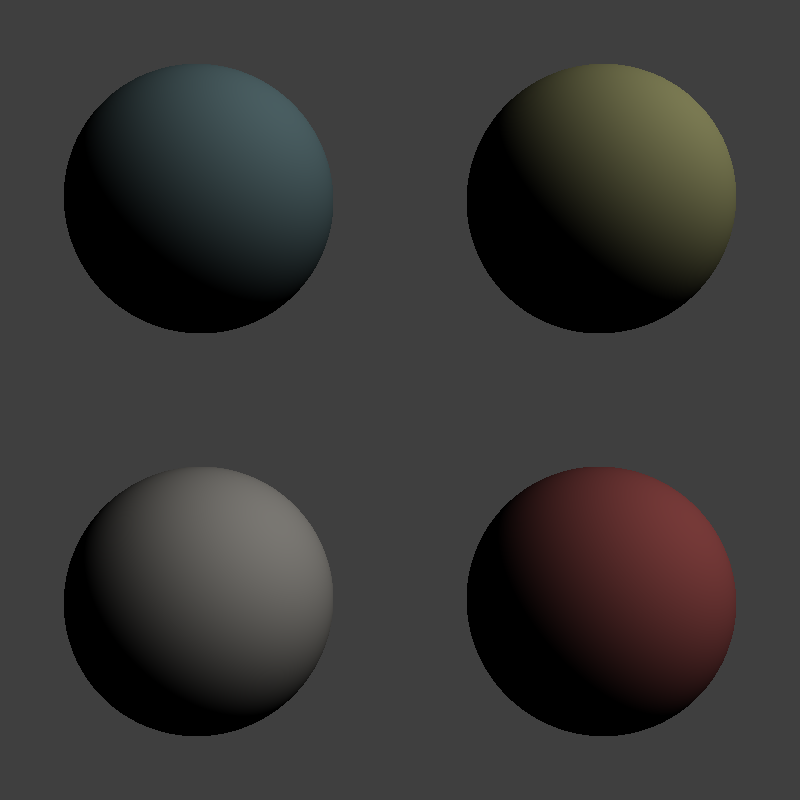
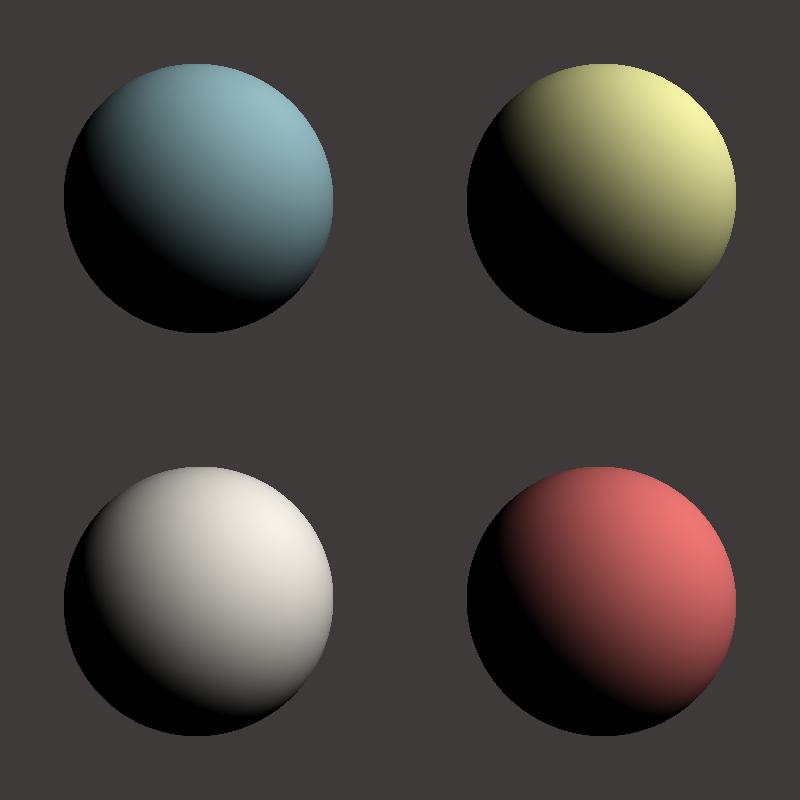
Lambertian Shader WORKS!!!

diff --git a/renderer/Lambertian.cpp b/renderer/Lambertian.cpp
@@ -3,7 +3,7 @@
 //
 
 #include "Lambertian.h"
-#include <math.h>
+#include <algorithm>
 
 Lambertian::Lambertian(sivelab::Vector3D thisColor){
     setColor(thisColor);
@@ -26,19 +26,29 @@ sivelab::Vector3D Lambertian::applyShader(Ray &r, std::vector<Light *> &lights, 
     normal.normalize();
 
 
+   float cosTheta= std::max(0.0f, (float)normal.dot(lightDir));
 
 
 
     float temp = normal.dot(lightDir);
-    if(temp < 0.00001) return sivelab::Vector3D(-1,-1,-1);
+  //  if(temp < 0.00001) return sivelab::Vector3D(-1,-1,-1);
 
 
-    newColor += lights[0]->getIntensity() * getColor() *sivelab::Vector3D(1,1,1) * std::fmax(0.f,temp);
+    newColor += lights[0]->getIntensity() * getColor() *sivelab::Vector3D(1,1,1) * std::max(0.0f,temp);
 
+
+    /**
+     * Trying something new right here.
+     */
+
+ //   newColor = (getColor()/M_PI)*(std::fmax(0.f, normal.dot(lightDir))/(h.getActualT()*h.getActualT()))*lights[0]->getIntensity();
 
 
   //  }
 
     return newColor;
+
+//   return sivelab::Vector3D(cosTheta,cosTheta,cosTheta);
+
 
 }

diff --git a/main/run.cpp b/main/run.cpp
@@ -51,7 +51,7 @@ int main(int argc, char *argv[]){
         for (int i=0; i<fb.getWidth(); ++i) {
             Ray r;
             r = pCam->generateRay(i,j);
-            sivelab::Vector3D rgb = sivelab::Vector3D(-0.5,-0.5,-0.5);  //r.getDirection();
+            sivelab::Vector3D rgb = sivelab::Vector3D(0.25,0.23,0.23);  //r.getDirection();
             double tmax = DBL_MAX;
             Shape *s = sc.getShapes()[0];
             for(int i = 0; i< sc.getShapes().size();i++){
@@ -63,10 +63,6 @@ int main(int argc, char *argv[]){
                     }
                 }
             }
-            rgb[0] += 1;
-            rgb[1] += 1;
-            rgb[2] += 1;
-            rgb /= 2.0;
             fb.setPixelColor(rgb, i, j, fb.getWidth());
         }
     }

diff --git a/renderer/HitStruct.cpp b/renderer/HitStruct.cpp
@@ -35,3 +35,7 @@ const sivelab::Vector3D &HitStruct::getPointInterect() const {
 const sivelab::Vector3D &HitStruct::getNorm() const {
     return norm;
 }
+
+float HitStruct::getActualT() const {
+    return actualT;
+}

diff --git a/renderer/HitStruct.h b/renderer/HitStruct.h
@@ -24,6 +24,8 @@ public:
     void setPointInterect(const sivelab::Vector3D &pointInterect);
 
     void setActualT(float actualT);
+
+    float getActualT() const;
     //add shader pointer later
 
 
